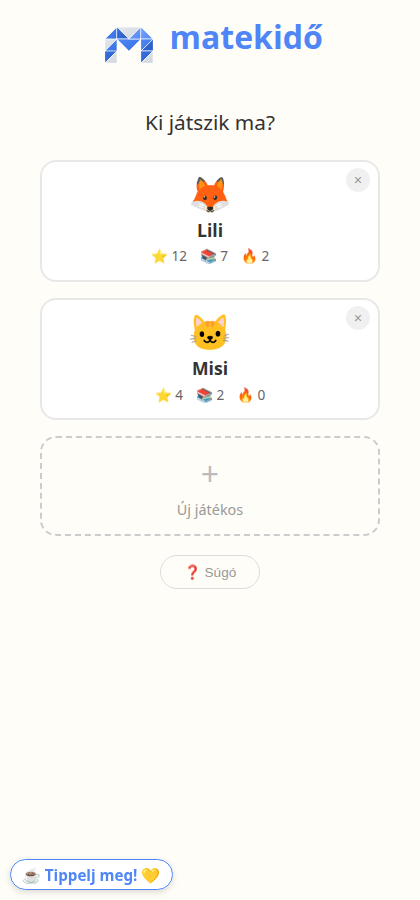
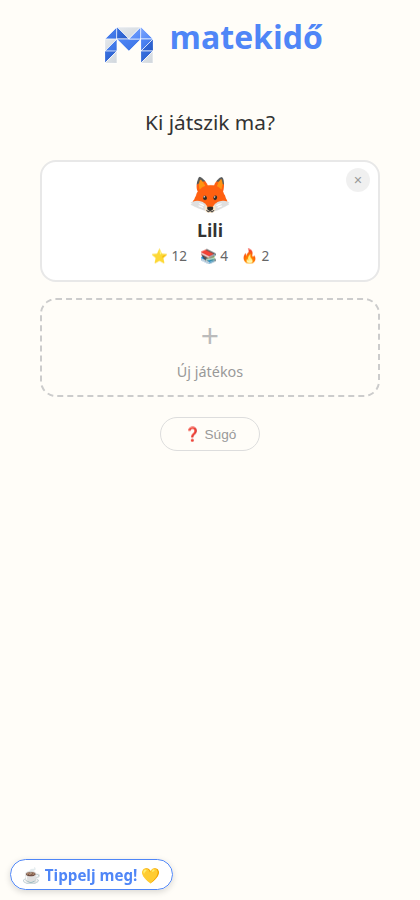
help and transfer

diff --git a/src/components/backupPanel.js b/src/components/backupPanel.js
@@ -1,6 +1,6 @@
 import { createCard } from "./ui/card.js";
 import { createButton } from "./ui/button.js";
-import { listPlayers, exportUsers, importUsers } from "../profile/UserManager.js";
+import { listPlayers, exportUsers, exportUsersSlim, importUsers } from "../profile/UserManager.js";
 import { queueMessage } from "./appDiagnostics.js";
 
 const TRANSFER_PREFIX = "matekido-atvitel:";
@@ -370,13 +370,16 @@ export function createBackupPanel({ playerIds = null, onChanged = () => {} } = {
             qrArea.replaceChildren();
             setStatus("Kód készül…");
             try {
-                const { url, text, tooLarge } = await buildQrImage(exportUsers(ids));
+                const fullQr = await buildQrImage(exportUsers(ids));
+                const slimQr = fullQr.tooLarge ? await buildQrImage(exportUsersSlim(ids)) : null;
+                const slimUsed = fullQr.tooLarge && slimQr && !slimQr.tooLarge;
+                const shown = slimUsed ? slimQr : fullQr;
                 qrArea.replaceChildren();
 
-                if (!tooLarge) {
+                if (!shown.tooLarge) {
                     const img = document.createElement("img");
                     img.className = "backup-qr-img";
-                    img.src = url;
+                    img.src = shown.url;
                     img.alt = "QR-kód";
                     qrArea.append(img);
                 }
@@ -386,7 +389,7 @@ export function createBackupPanel({ playerIds = null, onChanged = () => {} } = {
                     onClick: async () => {
                         setStatus("Kód másolása…");
                         try {
-                            await copyText(text);
+                            await copyText(shown.text);
                             setStatus("📋 Az átviteli kód a vágólapon van. A másik eszközön: Kód beillesztése.");
                         } catch {
                             setStatus("⚠ A másolás nem sikerült. Használd a letöltést.");
@@ -402,14 +405,18 @@ export function createBackupPanel({ playerIds = null, onChanged = () => {} } = {
                 pre.className = "backup-paste-input";
                 pre.readOnly = true;
                 pre.rows = 4;
-                pre.value = text;
+                pre.value = shown.text;
                 details.append(summary, pre);
 
                 const hint = document.createElement("p");
                 hint.className = "backup-hint";
-                hint.textContent = tooLarge
-                    ? "A profil túl nagy a QR-képhez, de a kód így is átvihető: másold ki, és a másik eszközön használd a Kód beillesztése opciót."
-                    : "Tartsd a másik eszközön indított QR beolvasás elé. Ha nem olvasható: másold a kódot, és ott használd a Kód beillesztése opciót.";
+                if (shown.tooLarge) {
+                    hint.textContent = "A profil túl nagy a QR-képhez, de a kód így is átvihető: másold ki, és a másik eszközön használd a Kód beillesztése opciót.";
+                } else if (slimUsed) {
+                    hint.textContent = "⚠ A QR az összesített adatokat viszi (csillagok, készség-statisztika, világok). A részletes előrehaladás (napi és leckénkénti adatok) teljesen a 💾 Letöltés / megosztás gombbal vihető át.";
+                } else {
+                    hint.textContent = "Tartsd a másik eszközön indított QR beolvasás elé. Ha nem olvasható: másold a kódot, és ott használd a Kód beillesztése opciót.";
+                }
 
                 qrArea.append(copyBtn, details, hint);
                 setStatus("");

diff --git a/src/profile/UserManager.js b/src/profile/UserManager.js
@@ -224,6 +224,45 @@ export function exportUsers(playerIds) {
 
 }
 
+export function exportUsersSlim(playerIds) {
+
+    const data = loadUsers();
+    const wanted = playerIds ? new Set(playerIds) : null;
+    const players = data.players
+        .filter(p => !wanted || wanted.has(p.id))
+        .map(p => ({
+            id: p.id,
+            name: p.name,
+            avatar: p.avatar,
+            profile: {
+                stars: p.profile.stars,
+                lessonsCompleted: p.profile.lessonsCompleted,
+                perfectLessons: p.profile.perfectLessons,
+                lettersDelivered: p.profile.lettersDelivered,
+                streak: p.profile.streak,
+                lastPlayed: p.profile.lastPlayed,
+                unlockedThemes: p.profile.unlockedThemes,
+                activeWorld: p.profile.activeWorld,
+                grade: p.profile.grade,
+                dailyQuest: p.profile.dailyQuest,
+                skillStats: p.profile.skillStats,
+                favorites: p.profile.favorites,
+                skippedLessons: p.profile.skippedLessons,
+                skippedCustomLessons: p.profile.skippedCustomLessons,
+                doneCustomLessons: p.profile.doneCustomLessons
+            }
+        }));
+
+    return JSON.stringify({
+        app: TRANSFER_APP,
+        type: TRANSFER_TYPE,
+        version: TRANSFER_VERSION,
+        exportedAt: new Date().toISOString(),
+        players
+    });
+
+}
+
 function sumCounts(a, b) {
     return (a ?? 0) + (b ?? 0);
 }

diff --git a/src/app.js b/src/app.js
@@ -10,8 +10,8 @@ import { getNextPracticeLesson } from "./components/practicePage.js?v=9";
 import { renderWelcomeScreen } from "./components/welcomeScreen.js?v=8";
 import { renderParentDashboard } from "./components/parentDashboard.js?v=7";
 import { renderParentHub } from "./components/parentHub.js?v=6";
-import { renderTransferPage } from "./components/transferPage.js?v=1";
-import { getActiveId, listPlayers } from "./profile/UserManager.js";
+import { renderTransferPage } from "./components/transferPage.js?v=2";
+import { getActiveId, listPlayers } from "./profile/UserManager.js?v=1";
 import { getActiveGrade, getFavoriteLessons, getLessonStats, recordLessonSkip, getSkippedLessons, getActiveWorld, setActiveGrade, resolveLessonGrade } from "./profile/Profile.js";
 import { CONSOLIDATION_LESSONS } from "./data/consolidation.js";
 import { createCard } from "./components/ui/card.js";

diff --git a/src/index.html b/src/index.html
@@ -108,7 +108,7 @@
 
     <a href="https://ko-fi.com/agnes84442" target="_blank" rel="noopener" title="Tippelj meg!" class="donate-tip" style="position:fixed; bottom:.6rem; left:.6rem; z-index:1000; display:inline-block; font-size:.95rem; color:#4F86F7; text-decoration:none; font-weight:600; background:rgba(255,255,255,.92); border:1px solid #4F86F7; border-radius:20px; padding:.3rem .7rem; box-shadow:0 2px 6px rgba(0,0,0,.15); white-space:nowrap;">☕ Tippelj meg! 💛</a>
 
-    <script type="module" src="app.js?v=177"></script>
+    <script type="module" src="app.js?v=178"></script>
 
     <script>
         if ("serviceWorker" in navigator) {

diff --git a/src/components/transferPage.js b/src/components/transferPage.js
@@ -1,6 +1,6 @@
 import { createCard } from "./ui/card.js";
 import { createButton } from "./ui/button.js";
-import { createBackupPanel } from "./backupPanel.js";
+import { createBackupPanel } from "./backupPanel.js?v=1";
 
 export function renderTransferPage(root, onBack) {
 

diff --git a/src/sw.js b/src/sw.js
@@ -1,6 +1,6 @@
 importScripts("./sw-cache.js");
 
-const CACHE = "matekido-v61";
+const CACHE = "matekido-v62";
 
 self.addEventListener("install", (event) => {
     event.waitUntil(
